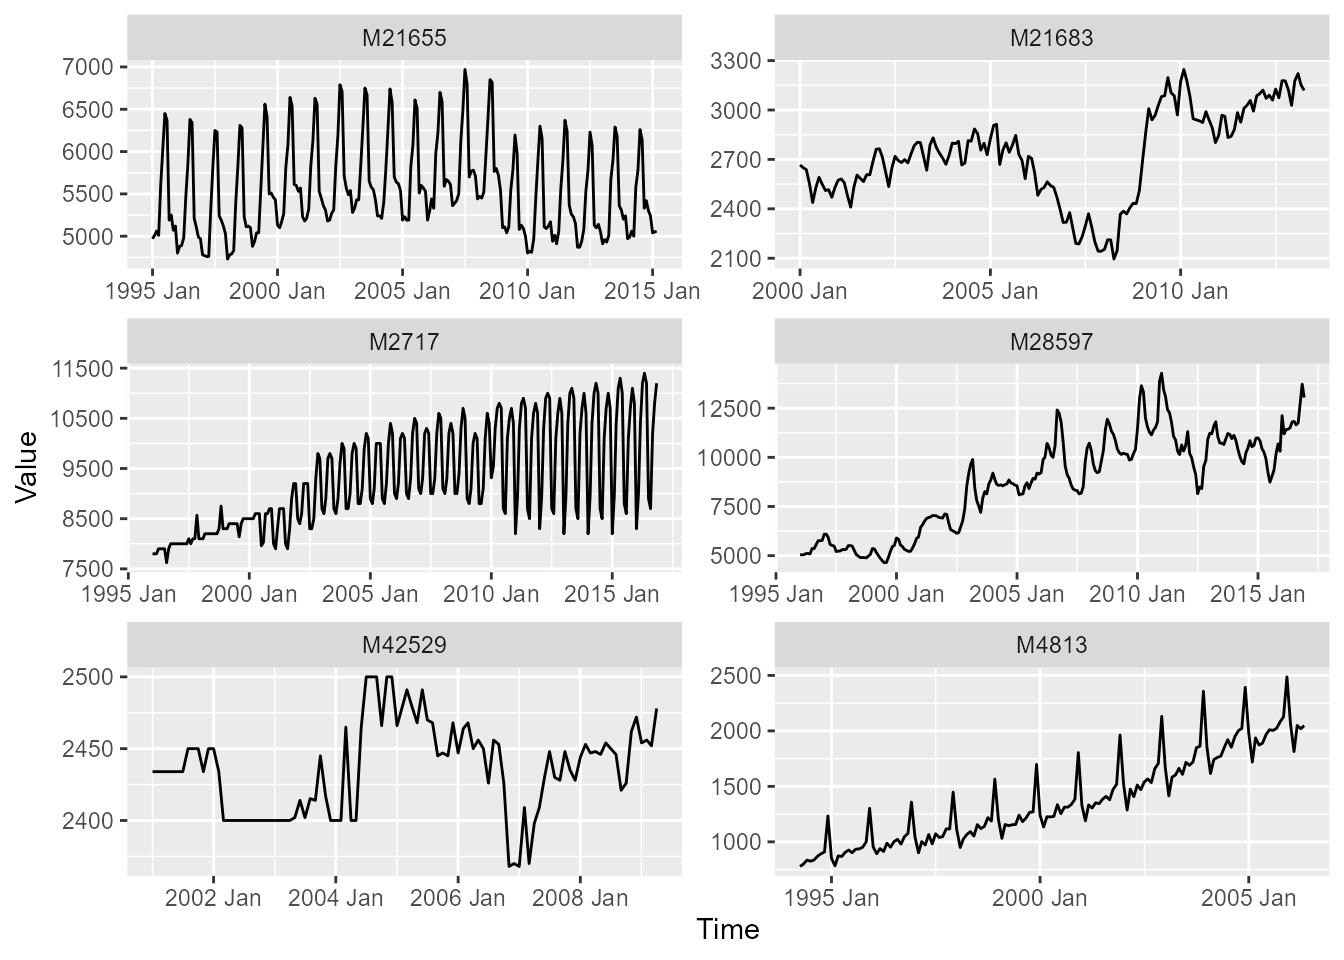
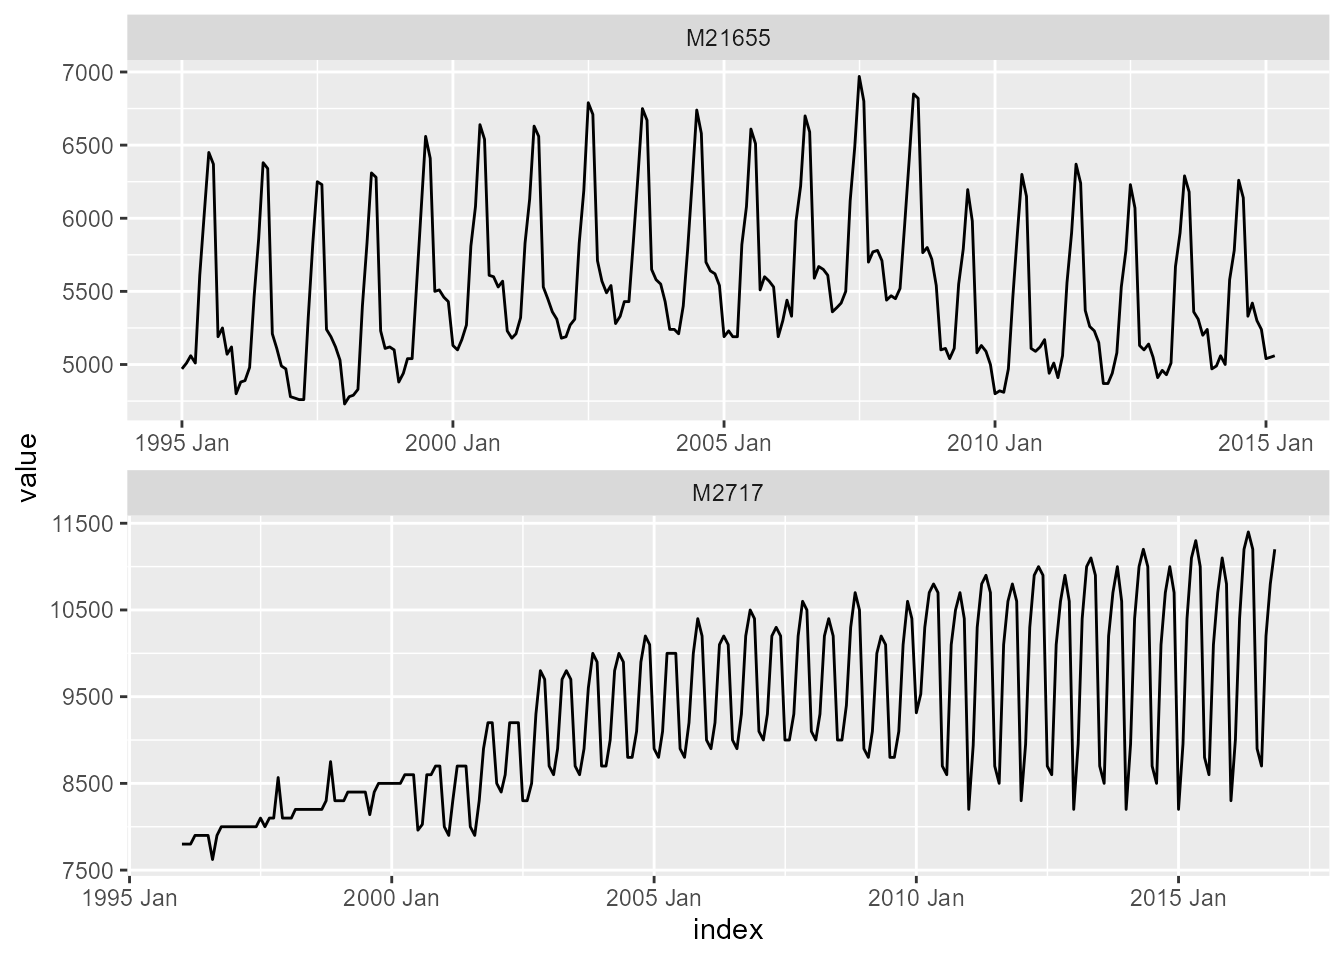
Update vignettes and pkgdown website

diff --git a/docs/articles/vignette_02_tidyR.html b/docs/articles/vignette_02_tidyR.html
@@ -99,9 +99,13 @@ Häußer</h4>
 <span><span class="kw"><a href="https://rdrr.io/r/base/library.html" class="external-link">library</a></span><span class="op">(</span><span class="va"><a href="https://tsibble.tidyverts.org" class="external-link">tsibble</a></span><span class="op">)</span></span>
 <span><span class="kw"><a href="https://rdrr.io/r/base/library.html" class="external-link">library</a></span><span class="op">(</span><span class="va"><a href="https://fable.tidyverts.org" class="external-link">fable</a></span><span class="op">)</span></span></code></pre></div>
 <div class="sourceCode" id="cb2"><pre class="downlit sourceCode r">
-<code class="sourceCode R"><span><span class="va">m4_data</span></span>
-<span><span class="co">#&gt; <span style="color: #949494;"># A tsibble: 1,152 x 4 [1M]</span></span></span>
-<span><span class="co">#&gt; <span style="color: #949494;"># Key:       series [6]</span></span></span>
+<code class="sourceCode R"><span></span>
+<span><span class="va">train_frame</span> <span class="op">&lt;-</span> <span class="va">m4_data</span> <span class="op"><a href="https://magrittr.tidyverse.org/reference/pipe.html" class="external-link">%&gt;%</a></span></span>
+<span>  <span class="fu"><a href="https://dplyr.tidyverse.org/reference/filter.html" class="external-link">filter</a></span><span class="op">(</span><span class="va">series</span> <span class="op"><a href="https://rdrr.io/r/base/match.html" class="external-link">%in%</a></span> <span class="fu"><a href="https://rdrr.io/r/base/c.html" class="external-link">c</a></span><span class="op">(</span><span class="st">"M21655"</span>, <span class="st">"M2717"</span><span class="op">)</span><span class="op">)</span></span>
+<span></span>
+<span><span class="va">train_frame</span></span>
+<span><span class="co">#&gt; <span style="color: #949494;"># A tsibble: 494 x 4 [1M]</span></span></span>
+<span><span class="co">#&gt; <span style="color: #949494;"># Key:       series [2]</span></span></span>
 <span><span class="co">#&gt;    series category       index value</span></span>
 <span><span class="co">#&gt;    <span style="color: #949494; font-style: italic;">&lt;chr&gt;</span>  <span style="color: #949494; font-style: italic;">&lt;fct&gt;</span>          <span style="color: #949494; font-style: italic;">&lt;mth&gt;</span> <span style="color: #949494; font-style: italic;">&lt;dbl&gt;</span></span></span>
 <span><span class="co">#&gt; <span style="color: #BCBCBC;"> 1</span> M21655 Demographic 1995 Jan  <span style="text-decoration: underline;">4</span>970</span></span>
@@ -114,12 +118,12 @@ Häußer</h4>
 <span><span class="co">#&gt; <span style="color: #BCBCBC;"> 8</span> M21655 Demographic 1995 Aug  <span style="text-decoration: underline;">6</span>370</span></span>
 <span><span class="co">#&gt; <span style="color: #BCBCBC;"> 9</span> M21655 Demographic 1995 Sep  <span style="text-decoration: underline;">5</span>190</span></span>
 <span><span class="co">#&gt; <span style="color: #BCBCBC;">10</span> M21655 Demographic 1995 Okt  <span style="text-decoration: underline;">5</span>250</span></span>
-<span><span class="co">#&gt; <span style="color: #949494;"># ℹ 1,142 more rows</span></span></span>
+<span><span class="co">#&gt; <span style="color: #949494;"># ℹ 484 more rows</span></span></span>
 <span></span>
 <span><span class="va">p</span> <span class="op">&lt;-</span> <span class="fu"><a href="https://ggplot2.tidyverse.org/reference/ggplot.html" class="external-link">ggplot</a></span><span class="op">(</span><span class="op">)</span></span>
 <span></span>
 <span><span class="va">p</span> <span class="op">&lt;-</span> <span class="va">p</span> <span class="op">+</span> <span class="fu"><a href="https://ggplot2.tidyverse.org/reference/geom_path.html" class="external-link">geom_line</a></span><span class="op">(</span></span>
-<span>  data <span class="op">=</span> <span class="va">m4_data</span>,</span>
+<span>  data <span class="op">=</span> <span class="va">train_frame</span>,</span>
 <span>  <span class="fu"><a href="https://ggplot2.tidyverse.org/reference/aes.html" class="external-link">aes</a></span><span class="op">(</span></span>
 <span>    x <span class="op">=</span> <span class="va">index</span>,</span>
 <span>    y <span class="op">=</span> <span class="va">value</span><span class="op">)</span>,</span>
@@ -128,13 +132,46 @@ Häußer</h4>
 <span></span>
 <span><span class="va">p</span> <span class="op">&lt;-</span> <span class="va">p</span> <span class="op">+</span> <span class="fu"><a href="https://ggplot2.tidyverse.org/reference/facet_wrap.html" class="external-link">facet_wrap</a></span><span class="op">(</span></span>
 <span>  <span class="fu"><a href="https://ggplot2.tidyverse.org/reference/vars.html" class="external-link">vars</a></span><span class="op">(</span><span class="va">series</span><span class="op">)</span>,</span>
-<span>  ncol <span class="op">=</span> <span class="fl">2</span>,</span>
+<span>  ncol <span class="op">=</span> <span class="fl">1</span>,</span>
 <span>  scales <span class="op">=</span> <span class="st">"free"</span><span class="op">)</span></span>
 <span></span>
-<span><span class="va">p</span> <span class="op">&lt;-</span> <span class="va">p</span> <span class="op">+</span> <span class="fu"><a href="https://ggplot2.tidyverse.org/reference/labs.html" class="external-link">labs</a></span><span class="op">(</span>x <span class="op">=</span> <span class="st">"Time"</span><span class="op">)</span></span>
-<span><span class="va">p</span> <span class="op">&lt;-</span> <span class="va">p</span> <span class="op">+</span> <span class="fu"><a href="https://ggplot2.tidyverse.org/reference/labs.html" class="external-link">labs</a></span><span class="op">(</span>y <span class="op">=</span> <span class="st">"Value"</span><span class="op">)</span></span>
 <span><span class="va">p</span></span></code></pre></div>
 <p><img src="vignette_02_tidyR_files/figure-html/data-1.png" width="672"></p>
+<div class="sourceCode" id="cb3"><pre class="downlit sourceCode r">
+<code class="sourceCode R"><span><span class="va">mable_frame</span> <span class="op">&lt;-</span> <span class="va">train_frame</span> <span class="op"><a href="https://magrittr.tidyverse.org/reference/pipe.html" class="external-link">%&gt;%</a></span></span>
+<span>  <span class="fu"><a href="https://fabletools.tidyverts.org/reference/model.html" class="external-link">model</a></span><span class="op">(</span><span class="fu"><a href="../reference/ESN.html">ESN</a></span><span class="op">(</span><span class="va">value</span><span class="op">)</span><span class="op">)</span></span>
+<span></span>
+<span><span class="va">mable_frame</span></span>
+<span><span class="co">#&gt; <span style="color: #949494;"># A mable: 2 x 2</span></span></span>
+<span><span class="co">#&gt; <span style="color: #949494;"># Key:     series [2]</span></span></span>
+<span><span class="co">#&gt;   series                            `ESN(value)`</span></span>
+<span><span class="co">#&gt;   <span style="color: #949494; font-style: italic;">&lt;chr&gt;</span>                                  <span style="color: #949494; font-style: italic;">&lt;model&gt;</span></span></span>
+<span><span class="co">#&gt; <span style="color: #BCBCBC;">1</span> M21655  &lt;ESN({243, 97, 194}, {36.57, 0.0046})&gt;</span></span>
+<span><span class="co">#&gt; <span style="color: #BCBCBC;">2</span> M2717  &lt;ESN({251, 100, 200}, {31.91, 0.0046})&gt;</span></span></code></pre></div>
+<div class="sourceCode" id="cb4"><pre class="downlit sourceCode r">
+<code class="sourceCode R"><span><span class="va">fable_frame</span> <span class="op">&lt;-</span> <span class="va">mable_frame</span> <span class="op"><a href="https://magrittr.tidyverse.org/reference/pipe.html" class="external-link">%&gt;%</a></span></span>
+<span>  <span class="fu"><a href="https://generics.r-lib.org/reference/forecast.html" class="external-link">forecast</a></span><span class="op">(</span>h <span class="op">=</span> <span class="fl">18</span><span class="op">)</span></span>
+<span></span>
+<span><span class="va">fable_frame</span></span>
+<span><span class="co">#&gt; <span style="color: #949494;"># A fable: 36 x 5 [1M]</span></span></span>
+<span><span class="co">#&gt; <span style="color: #949494;"># Key:     series, .model [2]</span></span></span>
+<span><span class="co">#&gt;    series .model        index       value .mean</span></span>
+<span><span class="co">#&gt;    <span style="color: #949494; font-style: italic;">&lt;chr&gt;</span>  <span style="color: #949494; font-style: italic;">&lt;chr&gt;</span>         <span style="color: #949494; font-style: italic;">&lt;mth&gt;</span>      <span style="color: #949494; font-style: italic;">&lt;dist&gt;</span> <span style="color: #949494; font-style: italic;">&lt;dbl&gt;</span></span></span>
+<span><span class="co">#&gt; <span style="color: #BCBCBC;"> 1</span> M21655 ESN(value) 2015 Apr N(5032, NA) <span style="text-decoration: underline;">5</span>032.</span></span>
+<span><span class="co">#&gt; <span style="color: #BCBCBC;"> 2</span> M21655 ESN(value) 2015 Mai N(5558, NA) <span style="text-decoration: underline;">5</span>558.</span></span>
+<span><span class="co">#&gt; <span style="color: #BCBCBC;"> 3</span> M21655 ESN(value) 2015 Jun N(5820, NA) <span style="text-decoration: underline;">5</span>820.</span></span>
+<span><span class="co">#&gt; <span style="color: #BCBCBC;"> 4</span> M21655 ESN(value) 2015 Jul N(6273, NA) <span style="text-decoration: underline;">6</span>273.</span></span>
+<span><span class="co">#&gt; <span style="color: #BCBCBC;"> 5</span> M21655 ESN(value) 2015 Aug N(6157, NA) <span style="text-decoration: underline;">6</span>157.</span></span>
+<span><span class="co">#&gt; <span style="color: #BCBCBC;"> 6</span> M21655 ESN(value) 2015 Sep N(5369, NA) <span style="text-decoration: underline;">5</span>369.</span></span>
+<span><span class="co">#&gt; <span style="color: #BCBCBC;"> 7</span> M21655 ESN(value) 2015 Okt N(5389, NA) <span style="text-decoration: underline;">5</span>389.</span></span>
+<span><span class="co">#&gt; <span style="color: #BCBCBC;"> 8</span> M21655 ESN(value) 2015 Nov N(5293, NA) <span style="text-decoration: underline;">5</span>293.</span></span>
+<span><span class="co">#&gt; <span style="color: #BCBCBC;"> 9</span> M21655 ESN(value) 2015 Dez N(5224, NA) <span style="text-decoration: underline;">5</span>224.</span></span>
+<span><span class="co">#&gt; <span style="color: #BCBCBC;">10</span> M21655 ESN(value) 2016 Jan N(5055, NA) <span style="text-decoration: underline;">5</span>055.</span></span>
+<span><span class="co">#&gt; <span style="color: #949494;"># ℹ 26 more rows</span></span></span>
+<span></span>
+<span><span class="va">fable_frame</span> <span class="op"><a href="https://magrittr.tidyverse.org/reference/pipe.html" class="external-link">%&gt;%</a></span></span>
+<span>  <span class="fu"><a href="https://ggplot2.tidyverse.org/reference/autoplot.html" class="external-link">autoplot</a></span><span class="op">(</span><span class="va">train_frame</span>, level <span class="op">=</span> <span class="cn">NULL</span><span class="op">)</span></span></code></pre></div>
+<p><img src="vignette_02_tidyR_files/figure-html/fable_frame-1.png" width="672"></p>
 </div>
   </div>
 

diff --git a/docs/articles/vignette_01_baseR.html b/docs/articles/vignette_01_baseR.html
@@ -176,11 +176,11 @@ information on the trained model.</p>
 <span><span class="co">#&gt; df           = 18.61</span></span>
 <span><span class="co">#&gt; lambda       = 0.008</span></span></code></pre></div>
 <p>From the output above, we get the following information about the
-trained model:</p>
+trained ESN model:</p>
 <table class="table">
 <colgroup>
-<col width="16%">
-<col width="83%">
+<col width="13%">
+<col width="86%">
 </colgroup>
 <thead><tr class="header">
 <th align="left">Value</th>
@@ -189,7 +189,8 @@ trained model:</p>
 <tbody>
 <tr class="odd">
 <td align="left"><code>n_obs</code></td>
-<td align="left">Number of observations</td>
+<td align="left">Number of observations (i.e., length of the input time
+series)</td>
 </tr>
 <tr class="even">
 <td align="left"><code>n_diff</code></td>
@@ -202,8 +203,56 @@ stationarity of the input training data</td>
 as model input</td>
 </tr>
 <tr class="even">
-<td align="left"><code>...</code></td>
-<td align="left">…</td>
+<td align="left"><code>n_states</code></td>
+<td align="left">Number of internal states (i.e., predictor variables or
+reservoir size).</td>
+</tr>
+<tr class="odd">
+<td align="left"><code>alpha</code></td>
+<td align="left">Leakage rate (smoothing parameter)</td>
+</tr>
+<tr class="even">
+<td align="left"><code>rho</code></td>
+<td align="left">Spectral radius for scaling the reservoir weight
+matrix</td>
+</tr>
+<tr class="odd">
+<td align="left"><code>density</code></td>
+<td align="left">Density of the reservoir weight matrix</td>
+</tr>
+<tr class="even">
+<td align="left"><code>scale_inputs</code></td>
+<td align="left">Input training data are scaled to the interval
+<code>(-0.5, 0.5)</code>
+</td>
+</tr>
+<tr class="odd">
+<td align="left"><code>scale_win</code></td>
+<td align="left">Input weights matrix is drawn from a random uniform
+distribution with interval <code>(-0.5, 0.5)</code>
+</td>
+</tr>
+<tr class="even">
+<td align="left"><code>scale_wres</code></td>
+<td align="left">Reservoir weight matrix is drawn from a random uniform
+distribution with interval <code>(-0.5, 0.5)</code>
+</td>
+</tr>
+<tr class="odd">
+<td align="left"><code>n_models</code></td>
+<td align="left">Number of models evaluated during the random search
+optimization to find the regularization parameter
+<code>lambda</code>
+</td>
+</tr>
+<tr class="even">
+<td align="left"><code>df</code></td>
+<td align="left">Effective degrees of freedom in the model</td>
+</tr>
+<tr class="odd">
+<td align="left"><code>lambda</code></td>
+<td align="left">Regularization parameter for the ridge regression
+estimation</td>
 </tr>
 </tbody>
 </table>
